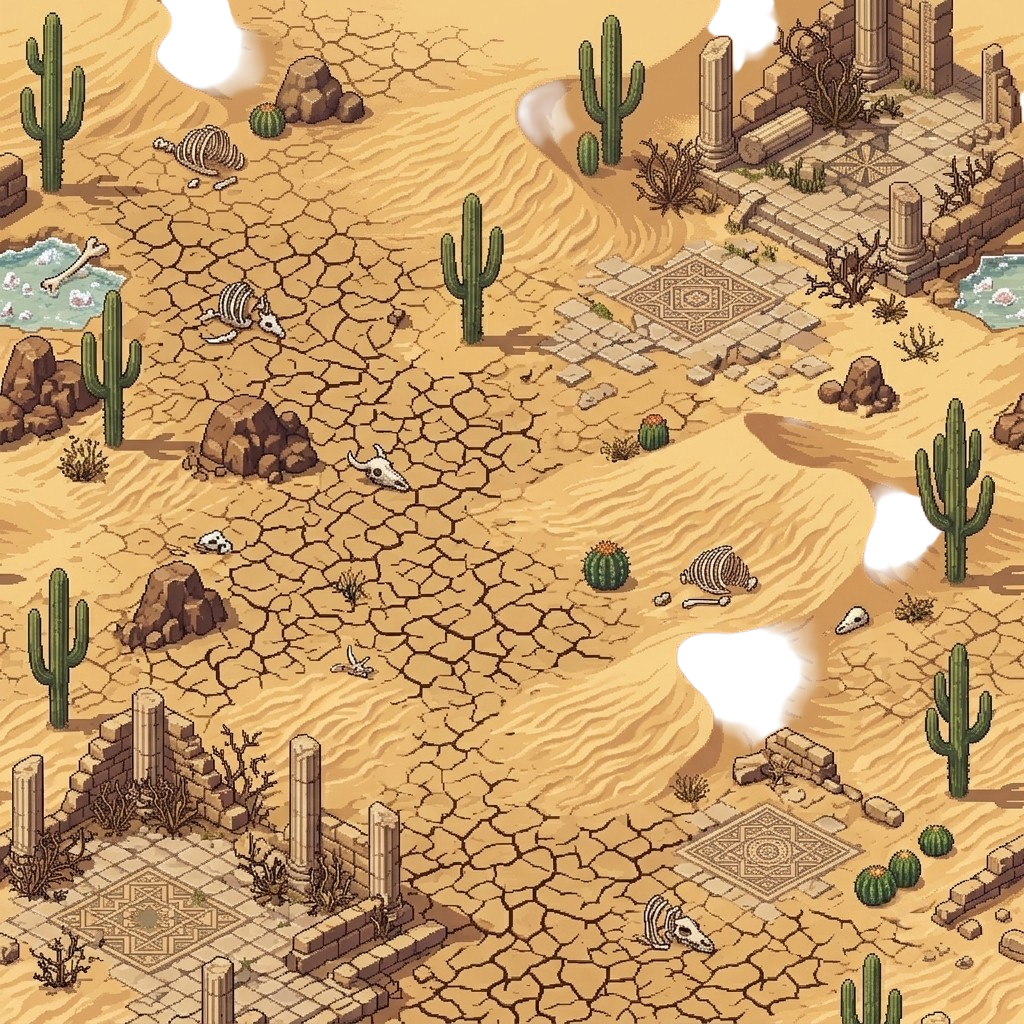
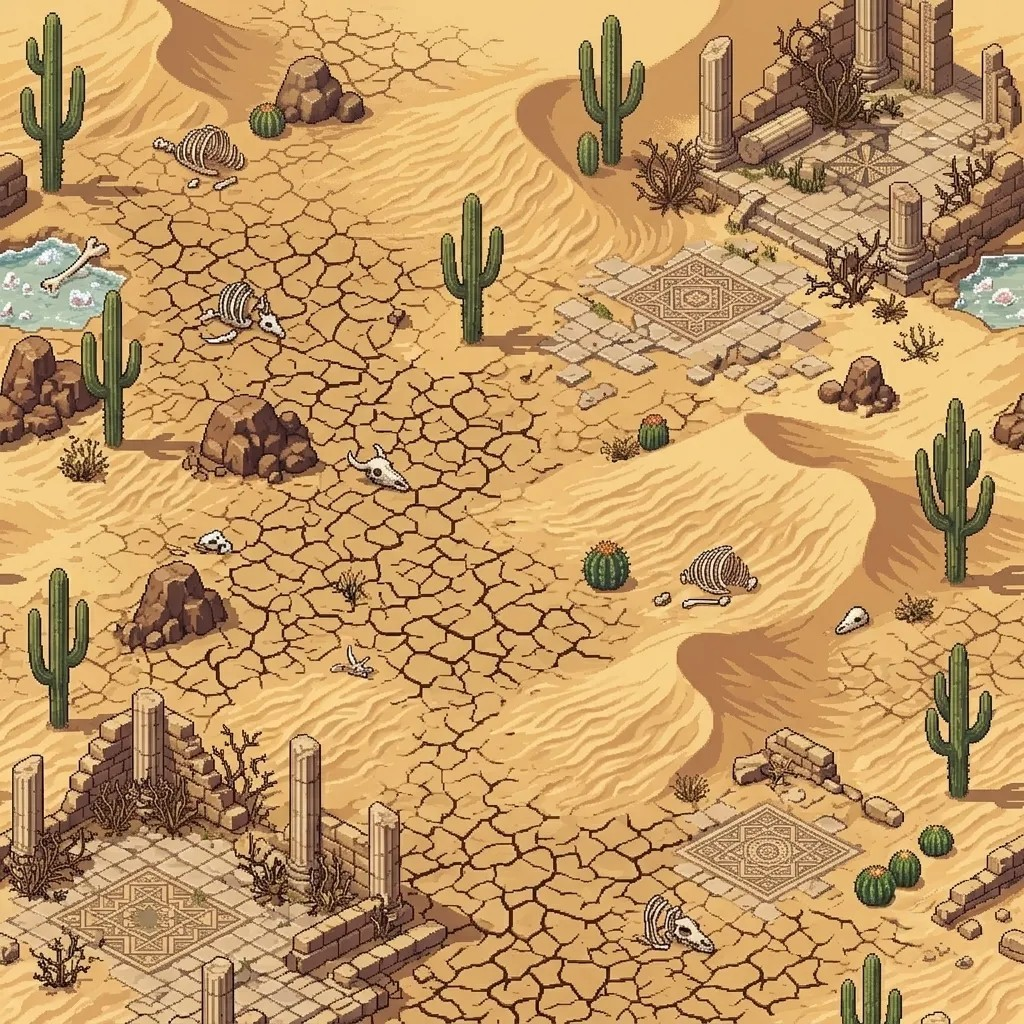
수정중.

diff --git a/index.html b/index.html
@@ -2470,7 +2470,7 @@ function startPreload() {
 
     const images = [
         laserBeamImg, laserHitImg, tornadoImg,
-        expGemImg1, expGemImg2, expGemImg3,
+        expGemImg1, expGemImg2, expGemImg3, expGemImg4,
         ...bgImages,
         ...Object.values(ENEMY_IMAGES).filter(Boolean),
         ...Object.values(charImages)
